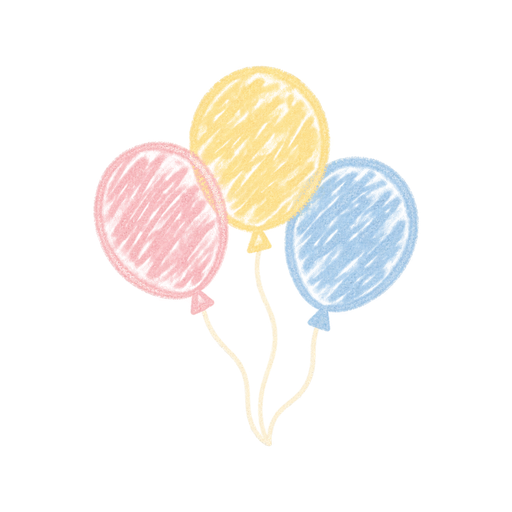
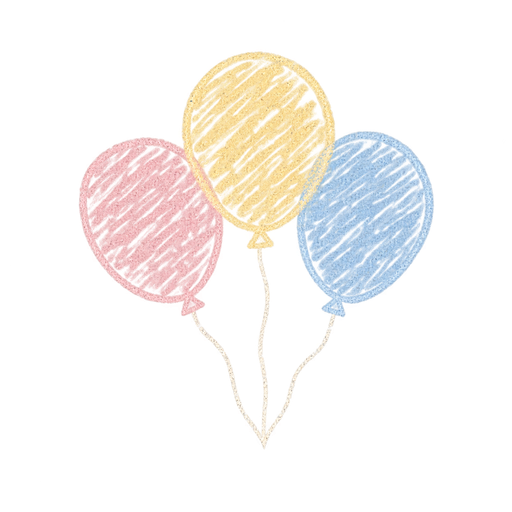
art: roughen balloon chalk strings and simplify kitten doodle

Changed region(s): [[0.1562, 0.0938, 0.875, 0.875]]

diff --git a/public/classroom/chalk/handdrawn/PROMPTS.md b/public/classroom/chalk/handdrawn/PROMPTS.md
@@ -6,7 +6,7 @@
 
 生成图保留真实透明通道；PNG 为未修改的生成原图，WebP 为保持透明度的 512 × 512 网页缩放版本。网页版本仅等比缩小与无损编码，不重新描线或补画。每款对应文件和推荐用法见 [README](README.md)。
 
-## 完整提示词
+## 第一版完整提示词
 
 ### heart
 
@@ -34,4 +34,24 @@ Subject: A small bunch of exactly THREE gently lopsided oval balloons: dusty pin
 ```text
 Use case: stylized-concept. Asset type: a single reusable transparent raster chalk-drawing asset for a cozy hand-painted classroom website. Deliver an actual RGBA PNG on a fully transparent background, NOT a checkerboard illustration. Square canvas, generous clean transparent padding, whole drawing contained, drawn area about 72 percent of the canvas. The website's approved art direction is a quiet flat storybook classroom with muted grey-green board #426e63, warm ochre wood, matte paper textures. You are making ONLY the chalk motif, do not draw any blackboard, paper, wooden frame, surface, shadow or environment. Chalk palette ONLY warm ivory #f5efdb, pastel yellow #efd28a, dusty pink #e6b1ba, pale blue #a4c5de. Make it beautiful, cute, very simple, convincingly drawn freehand with actual short sticks of dry chalk: soft irregular edges, mild asymmetry, natural pressure variation and tiny transparent grain holes in the strokes. Any filled area MUST visibly consist of overlapping short chalk rubbing strokes with uneven coverage and transparent flecks; no smooth solid digital fills, no gradients, no shine. Texture must remain readable when the whole motif is shown at 160 CSS pixels, silhouette still identifiable at 52 pixels. No fine ornamental clutter, no complex details, no hard vector precision, no mechanically repeated lines, no thick sticker border, no watercolor puddles, no oil pastel wax, no cast shadow, no lettering, no watermark.
 Subject: ONE very cute simple sitting kitten, front-facing, with a slightly tilted plump head, soft triangular ears, a small rounded pear-shaped body, two tiny front paws and ONE short relaxed curved tail to the right. Draw mainly with warm-ivory chalk outlines of naturally varying thickness, big clear uncomplicated shapes, keep head and body centers empty transparent. Facial features are just two small curved closed happy eyes, a little nose and short smiling mouth in ivory chalk, and two short whiskers per cheek. Add a tiny dusty-pink chalk-rub blush on each cheek and very light broken pink chalk inside the ears. Any filled marks must show chalk rubbing grain. Friendly, gently imperfect doodle, no fur strands, no clothing, no accessories, no surrounding hearts or stars, no shadow or ground line.
+```
+
+## 第二版：气球绳线与猫咪手绘感
+
+2026-09-10，根据用户对气球绳线缺少粉笔感、猫咪过于精致的反馈更新。以下两段是当前气球和猫咪最终采用的提示词，取代上方第一版对应结果。爱心和星星沿用第一版。使用内置 imagegen 分别重新生成透明素材，保留原调用地址；前两次图像编辑返回了带棋盘格的非透明文件，未采用。
+
+### balloons：当前版本
+
+```text
+Use case: stylized-concept. Create a single transparent raster chalk doodle asset for a cozy classroom website. True RGBA PNG with transparent background and actual transparent grain gaps. Square canvas. Entire drawing contained with about 12 percent clear padding. Draw ONLY a bunch of exactly THREE balloons and their strings, no environment, no paper, no checkerboard squares, no blackboard, no shadow, no text.
+Three simple softly lopsided oval balloons: dusty pink #e6b1ba at left, pastel yellow #efd28a at middle and a little higher, pale blue #a4c5de at right. Preserve a quiet muted pastel palette that complements a grey-green #426e63 classroom blackboard. Small chalk triangular knots. Each balloon filled by visible short diagonal back-and-forth RUBBING WITH DRY CHALK: uneven deposit, grain holes and broken transparent streaks. Flat matte chalk, simple outlines with mild natural asymmetry, no glossy highlights, no digital solid fills, no densely repeated squiggles. The three balloon bodies overlap slightly and remain separately countable.
+Most important: the three hanging strings must unmistakably be HAND-DRAWN CHALK MARKS ON A BOARD. Use ONE thin dry warm-ivory #f5efdb stroke per string, with a naturally wandering path, visible pressure changes, short interruptions, crumbly grain breaking THROUGH the line, and modest hesitant kinks. NOT smooth ribbon, NOT two parallel outlines, NOT a solid continuous tube, NOT rope texture. Strings much thinner than the balloon outlines: roughly 5 to 9 px on a 1254 px canvas. The overall path has only a few loose bends and the three lines meet at a simple lower point with no bow. Every part of each string must show chalk friction and transparency, not a smooth solid strip with a rough edge. Sparse modest marks like a person sketched the three strings quickly with the tip of a worn chalk stick. Match physical chalk texture of the balloon fill. Keep the bunch short enough for a square web motif legible at 160 CSS pixels. Cute, relaxed, hand-drawn, very simple.
+```
+
+### cat：当前版本
+
+```text
+Use case: stylized-concept. Create ONE original transparent chalk-doodle kitten asset for a classroom website. Draw one sitting kitten in warm ivory #f5efdb and tiny dusty-pink #e6b1ba accents, the square transparent canvas, and its use as a small decoration on grey-green chalkboard #426e63. This must feel like a charming quick 15-second sketch by a person using an ordinary worn stick of chalk.
+Use just a few economical SINGLE chalk strokes. A slightly lopsided somewhat squarish-rounded head with two unequal casually drawn triangular ears; avoid a polished perfect oval. A tiny body suggested by one irregular U-shaped stroke, two short front-leg ticks, and a SINGLE thin loose curling tail to the right. No detailed paws or toes, no closed tubular tail, no anatomically modeled legs, no contour doubling. Face: two small unequal short chalk dashes for eyes, one tiny chalk nose and a casually written tiny w mouth, two quick unequal whisker strokes each side. Optional blush consists only of two very short broken rubbed pink chalk marks per cheek, not filled circles; ear centers stay empty. Interior of head and body fully transparent.
+Critical mark quality: the contour must visibly wander, change pressure, taper or skip a little, with a few imperfect joins and sparse natural overruns. Slightly wonky proportions and relaxed asymmetry are the source of cuteness. Dry broken chalk deposit with transparent grain gaps running through every stroke, not a digitally smooth contour wearing a noise filter. Stroke widths around 8 to 16 px on the 1254 px canvas, irregularly varying; light and uninflated. Keep the result legible at 160 px and its silhouette at 52 px. Avoid professional mascot finish, precise bezier curves, uniform monoline, airbrush, outlines around strokes, smooth digital fills, extensive white chalk smudge clouds, hatch clutter, decorative elements, texture outside the actual lines, any text, any background, shadow or sticker border. Center the doodle with at least 12 percent clear margin. True RGBA transparent image.
 ```

diff --git a/public/classroom/chalk/handdrawn/README.md b/public/classroom/chalk/handdrawn/README.md
@@ -2,6 +2,8 @@
 
 这一套用于当前教室的灰绿色黑板，配色沿用暖白、淡黄、柔粉和浅蓝。四款素材各自独立，背景透明，粉笔线条和涂色中的颗粒空隙可以透出网页背景。
 
+2026-09-10 第二版更新了气球和猫咪：气球绳线使用粗细起伏、带颗粒断口的粉笔笔迹；猫咪减少脚部细节，以不对称耳朵和短笔画表情表现随手画的感觉。文件地址沿用原路径，PNG 和 WebP 已一同更新。
+
 | 图案 | 标识 | 网页文件 | 原始文件 |
 | --- | --- | --- | --- |
 | 爱心 | `heart` | [heart.webp](heart.webp) | [heart.png](heart.png) |
